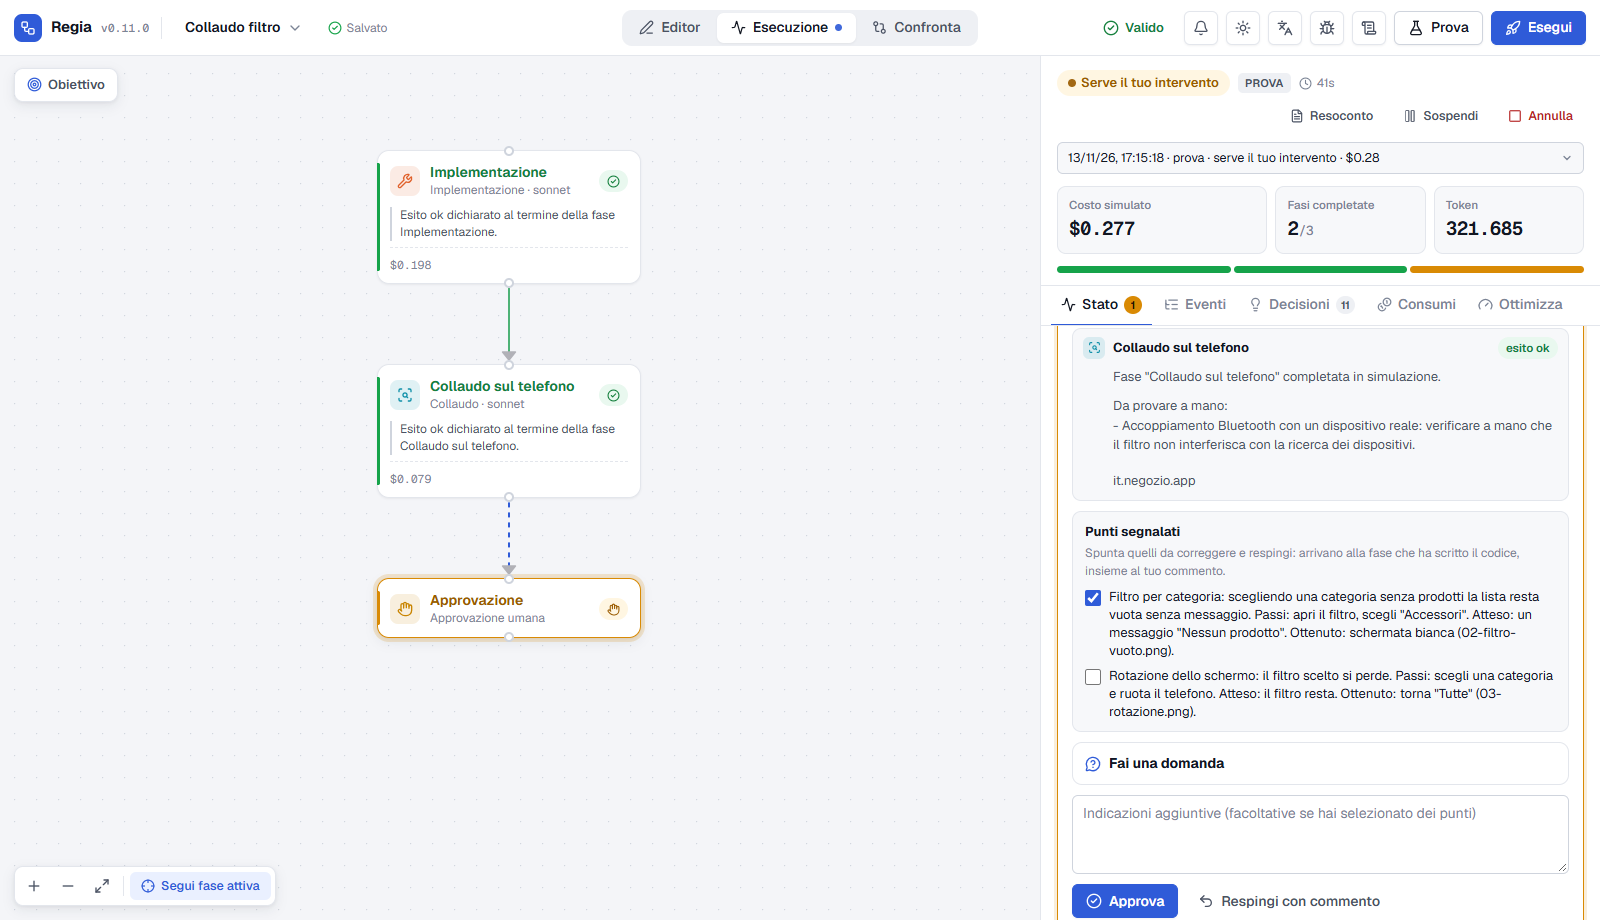
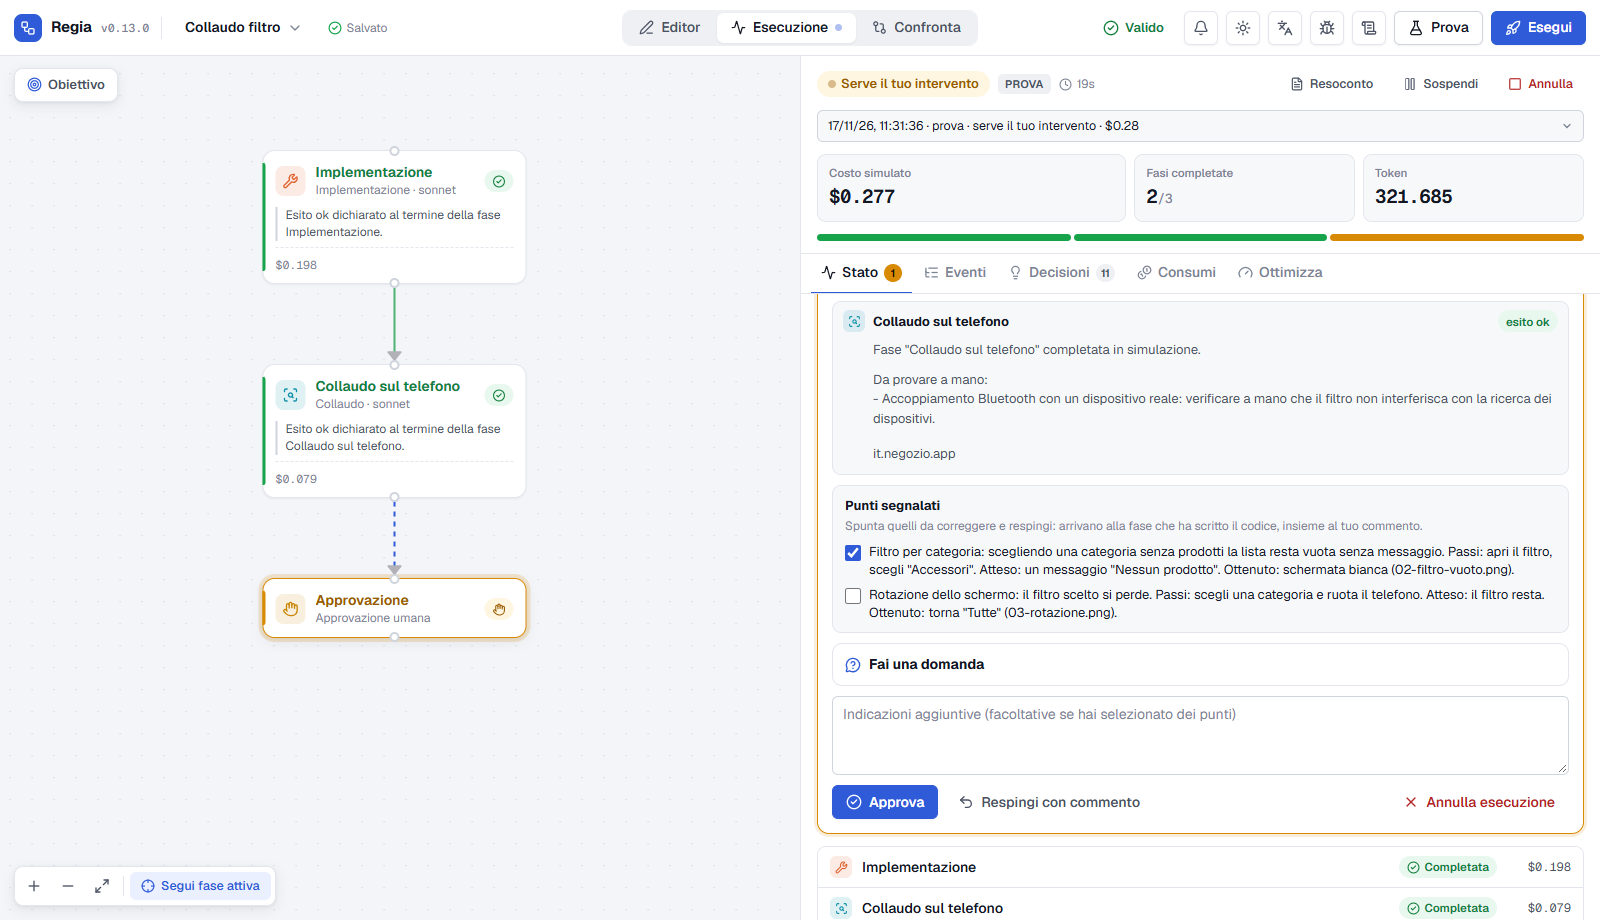
Wider run panel, keep comments when switching tabs, no limit on approval rounds, release 0.13.0
- The run panel takes half of the window (up to 1000 px), leaving the
  diagram the other half, so approval cards, review points and answers are
  easier to read.
- Comments, ticked review points and questions written in an approval card
  are kept when switching to another tab (Events, Decisions...) or to the
  editor and back; they are cleared after approving or rejecting, and a new
  list of review points starts unticked.
- Human approval no longer stops after 3 correction rounds: every round
  starts only from a rejection with a comment, so the person decides when to
  approve or cancel.
- Refreshed the screenshots and documented the change.

diff --git a/web/src/components/RunPanel.tsx b/web/src/components/RunPanel.tsx
@@ -40,6 +40,23 @@ const EVENT: Record<EventKind, { icon: LucideIcon }> = {
 
 type Tab = 'stato' | 'eventi' | 'decisioni' | 'consumi' | 'ottimizza';
 
+// Bozze di commenti, domande e punti scelti: restano se si cambia scheda o vista e si torna alla card.
+const drafts = new Map<string, unknown>();
+function useDraft<T>(key: string, initial: T): [T, (v: T | ((prev: T) => T)) => void] {
+  const [value, setValue] = useState<T>(() => (drafts.has(key) ? drafts.get(key) as T : initial));
+  const [shownKey, setShownKey] = useState(key);
+  if (shownKey !== key) {
+    setShownKey(key);
+    setValue(drafts.has(key) ? drafts.get(key) as T : initial);
+  }
+  const set = (v: T | ((prev: T) => T)) => setValue((prev) => {
+    const next = typeof v === 'function' ? (v as (p: T) => T)(prev) : v;
+    drafts.set(key, next);
+    return next;
+  });
+  return [value, set];
+}
+
 interface Props {
   run: Run;
   runs: RunSummary[];
@@ -253,8 +270,8 @@ function AskBox({ run, nodeId, readOnly }: { run: Run; nodeId: string; readOnly:
   const n = run.nodes[nodeId];
   const targets = n.askable ?? [];
   const asked = (n.questions ?? []).filter((q) => q.round === n.feedbackRounds);
-  const [target, setTarget] = useState('');
-  const [text, setText] = useState('');
+  const [target, setTarget] = useDraft(`${run.id}:${nodeId}:askTarget`, '');
+  const [text, setText] = useDraft(`${run.id}:${nodeId}:ask`, '');
   const [busy, setBusy] = useState(false);
   const canAsk = !readOnly && n.status === 'attesa_intervento' && Boolean(n.pendingActions?.includes('approva')) && targets.length > 0;
   if (!canAsk && !asked.length) return null;
@@ -311,12 +328,11 @@ const shortDir = (p: string) => { const parts = p.split(/[\\/]+/).filter(Boolean
 function InterventionCard({ run, nodeId, label, readOnly = false, onGranted }: { run: Run; nodeId: string; label: string; readOnly?: boolean; onGranted?: Props['onGranted'] }) {
   const { t, tm } = useI18n();
   const n = run.nodes[nodeId];
-  const [fb, setFb] = useState('');
+  const [fb, setFb] = useDraft(`${run.id}:${nodeId}:comment`, '');
   const [busy, setBusy] = useState(false);
-  // Punti scelti, come "nodeId:indice"; si azzerano quando arriva una nuova lista (nuovo giro di revisione).
-  const [chosen, setChosen] = useState<Set<string>>(new Set());
+  // Punti scelti, come "nodeId:indice"; legati alla lista: con una nuova lista (nuovo giro di revisione) si riparte da zero.
   const pointsKey = JSON.stringify(n.reviewPoints ?? []);
-  useEffect(() => setChosen(new Set()), [pointsKey]);
+  const [chosen, setChosen] = useDraft<Set<string>>(`${run.id}:${nodeId}:points:${pointsKey}`, new Set());
   const node = run.snapshot.nodes.find((x) => x.id === nodeId)!;
   const isApproval = node.data.kind === 'approvazione';
   const preds = run.snapshot.edges.filter((e) => e.target === nodeId).map((e) => run.nodes[e.source]).filter(Boolean);

diff --git a/server/engine.ts b/server/engine.ts
@@ -32,7 +32,6 @@ import { depsPlan, diagnose, envWithNode, needsDeps, resolveNode, runOnce, type 
 import { openBrowser, planLaunch } from './launch.ts';
 
 const MAX_EVENTS = 6000;
-const MAX_FEEDBACK_ROUNDS = 3;
 /** Punti proposti al massimo da una revisione. */
 const MAX_POINTS = 25;
 /** Turni massimi per rispondere a una domanda (può rileggere qualche file). */
@@ -1616,15 +1615,8 @@ export class RunEngine {
       }
       if (action === 'respingi') {
         if (!fb) { st.pendingActions = ['approva', 'respingi', 'annulla']; throw this.fail(msg('api.rejectNeedsComment')); }
+        // Nessun limite ai cicli: ogni ciclo parte solo da un respingimento con commento, quindi decide la persona.
         st.feedbackRounds++;
-        if (st.feedbackRounds > MAX_FEEDBACK_ROUNDS) {
-          st.status = 'fallita';
-          st.pendingActions = ['approva', 'annulla'];
-          this.setPending(st, msg('interventions.maxFeedbackRounds', { count: MAX_FEEDBACK_ROUNDS }));
-          this.nodeChanged(nodeId);
-          this.updateRunStatus();
-          return;
-        }
         // Il feedback va alla fase che ha prodotto il lavoro: la più vicina a monte che può modificare file
         // (altrimenti le fasi immediatamente precedenti). Le fasi intermedie (test, revisione) vengono rieseguite.
         const targets = this.reworkTargets(nodeId);

diff --git a/server/test/engine.test.ts b/server/test/engine.test.ts
@@ -123,6 +123,14 @@ test('esecuzione di prova completa con approvazione e ripresa con feedback', asy
   assert.ok(Math.abs(run.totals.costUsd! - sumAttempts) < 1e-9);
   assert.ok(run.totals.costUsd! > costBefore);
 
+  // Nessun limite ai cicli di correzione: si può respingere quante volte serve.
+  for (let i = 2; i <= 5; i++) {
+    await eng.human('approvazione', 'respingi', `Correzione numero ${i}`);
+    await waitFor(() => run.nodes.approvazione.status === 'attesa_intervento' && run.nodes.correzione.attempts.length === i + 1);
+    assert.deepEqual(run.nodes.approvazione.pendingActions, ['approva', 'respingi', 'annulla']);
+  }
+  assert.equal(run.nodes.approvazione.feedbackRounds, 5);
+
   await eng.human('approvazione', 'approva');
   await waitFor(() => run.status === 'completata');
   assert.ok(run.events.some((e) => e.kind === 'decisione' && e.source === 'dichiarata'));

diff --git a/web/src/styles.css b/web/src/styles.css
@@ -296,7 +296,7 @@ input[type="checkbox"] { width: 16px; height: 16px; min-height: 0; accent-color:
 
 /* ---------- Pannello di destra ---------- */
 .inspector { width: 372px; flex: none; border-left: 1px solid var(--border); background: var(--surface); overflow: auto; }
-.inspector.wide { width: min(560px, 46vw); display: flex; flex-direction: column; overflow: hidden; }
+.inspector.wide { width: min(1000px, 50vw); display: flex; flex-direction: column; overflow: hidden; }
 .inspector-inner { display: flex; flex-direction: column; }
 .insp-head { display: flex; align-items: center; gap: 12px; padding: 16px; border-bottom: 1px solid var(--border); position: sticky; top: 0; background: var(--surface); z-index: 2; }
 .insp-titles { flex: 1; min-width: 0; display: flex; flex-direction: column; gap: 2px; }

diff --git a/docs/dettagli-tecnici.md b/docs/dettagli-tecnici.md
@@ -44,7 +44,7 @@ Fase di tipo `collaudo`, in due passi nella stessa fase:
 
 ## Interventi
 
-- **Approvazione umana**: approva, oppure respingi con un commento. La fase a monte più vicina che può modificare file riprende la propria sessione con il commento; le fasi intermedie (test, revisione) vengono rieseguite e l'approvazione viene richiesta di nuovo. Al massimo 3 cicli.
+- **Approvazione umana**: approva, oppure respingi con un commento. La fase a monte più vicina che può modificare file riprende la propria sessione con il commento; le fasi intermedie (test, revisione) vengono rieseguite e l'approvazione viene richiesta di nuovo. Non c'è un limite ai cicli: decidi tu quando approvare o annullare.
 - **Punti della revisione**: alle fasi di tipo *revisione* il protocollo chiede di elencare le modifiche proposte nella chiave `punti` del blocco di esito, in ordine di importanza e al massimo 25, lasciando l'esito `ok`. Se ne arrivano di più, la checklist tiene i primi 25: gli altri sono elencati in un evento della fase e l'approvazione indica quanti sono. Restano nel testo passato alle fasi successive e l'approvazione li mostra come caselle: vengono raccolti dalle fasi che un respingi farebbe rieseguire, anche se non collegate direttamente, più quelle collegate direttamente, dall'ultimo tentativo di ciascuna. Respingendo, i punti scelti (raggruppati per fase) e il commento formano il feedback; serve almeno uno dei due.
 - **Fase fallita o bloccata**: l'agente può dichiarare un esito `ko` o `bloccato`. Le scelte sono riprova da capo, riprendi la sessione con un messaggio, salta oppure annulla l'esecuzione.
 - **Permesso mancante**: il protocollo chiede all'agente che si ferma per mancanza di strumenti di indicare nel blocco di esito `permesso`: `modifica` o `internet`. Se alla fase mancano davvero gli strumenti di quel livello (`modifica`: Read, Glob, Grep, Edit, Write, Bash; `internet`: in più WebFetch e WebSearch), compare l'azione **Consenti**: gli strumenti mancanti vengono aggiunti, senza toglierne nessuno, alla copia del workflow dell'esecuzione e al workflow salvato, se la fase esiste ancora; la fase riprende la stessa sessione. Gli eventi registrano cosa è stato concesso.

diff --git a/docs/technical-details.md b/docs/technical-details.md
@@ -44,7 +44,7 @@ Phase of type `collaudo`, in two steps within the same phase:
 
 ## Interventions
 
-- **Human approval**: approve, or reject with a comment. The closest upstream phase that can edit files resumes its own session with the comment; intermediate phases (test, review) run again and approval is requested again. At most 3 rounds.
+- **Human approval**: approve, or reject with a comment. The closest upstream phase that can edit files resumes its own session with the comment; intermediate phases (test, review) run again and approval is requested again. There is no limit on rounds: you decide when to approve or cancel.
 - **Review points**: the protocol asks *review* phases to list the changes they propose under the `punti` key of the outcome block, ordered by importance and at most 25, keeping the outcome `ok`. If more arrive, the checklist keeps the first 25: the rest are listed in an event of the phase and the approval says how many there are. They stay in the text passed to later phases, and the approval shows them as checkboxes: they are collected from the phases a rejection would run again, even when not directly connected, plus the directly connected ones, from the last attempt of each. When rejecting, the chosen points (grouped by phase) and the comment make up the feedback; at least one of the two is needed.
 - **Failed or blocked phase**: the agent can declare a `ko` or `bloccato` (blocked) outcome. The choices are retry from scratch, resume the session with a message, skip, or cancel the run.
 - **Missing permission**: the protocol asks an agent that stops for lack of tools to state `permesso` (permission) in the outcome block: `modifica` (change) or `internet`. If the phase really lacks the tools of that level (`modifica`: Read, Glob, Grep, Edit, Write, Bash; `internet`: plus WebFetch and WebSearch), the **Allow** action appears: the missing tools are added, without removing any, to the run's copy of the workflow and to the saved workflow if the phase still exists; the phase resumes the same session. The events record what was granted.
